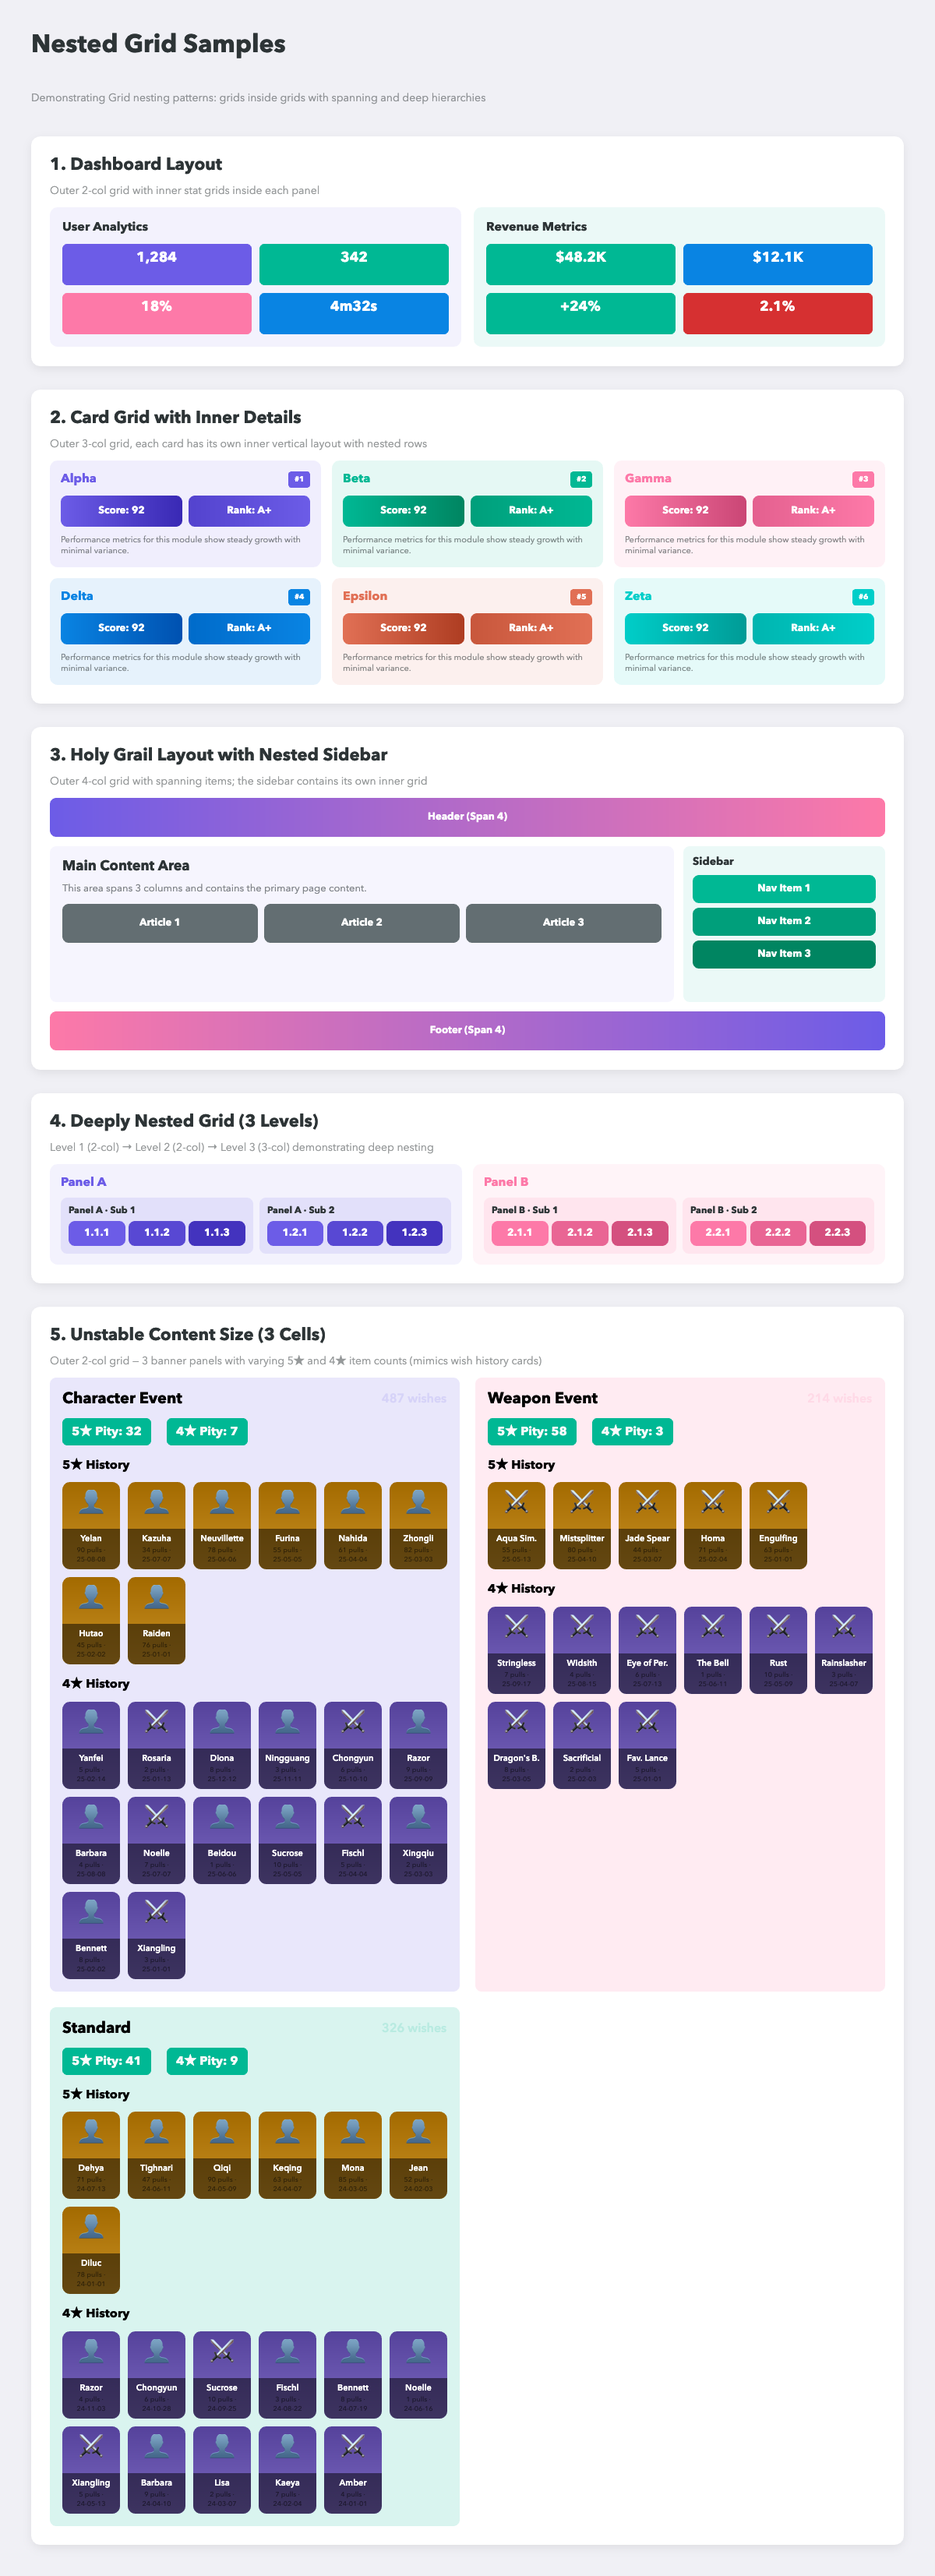
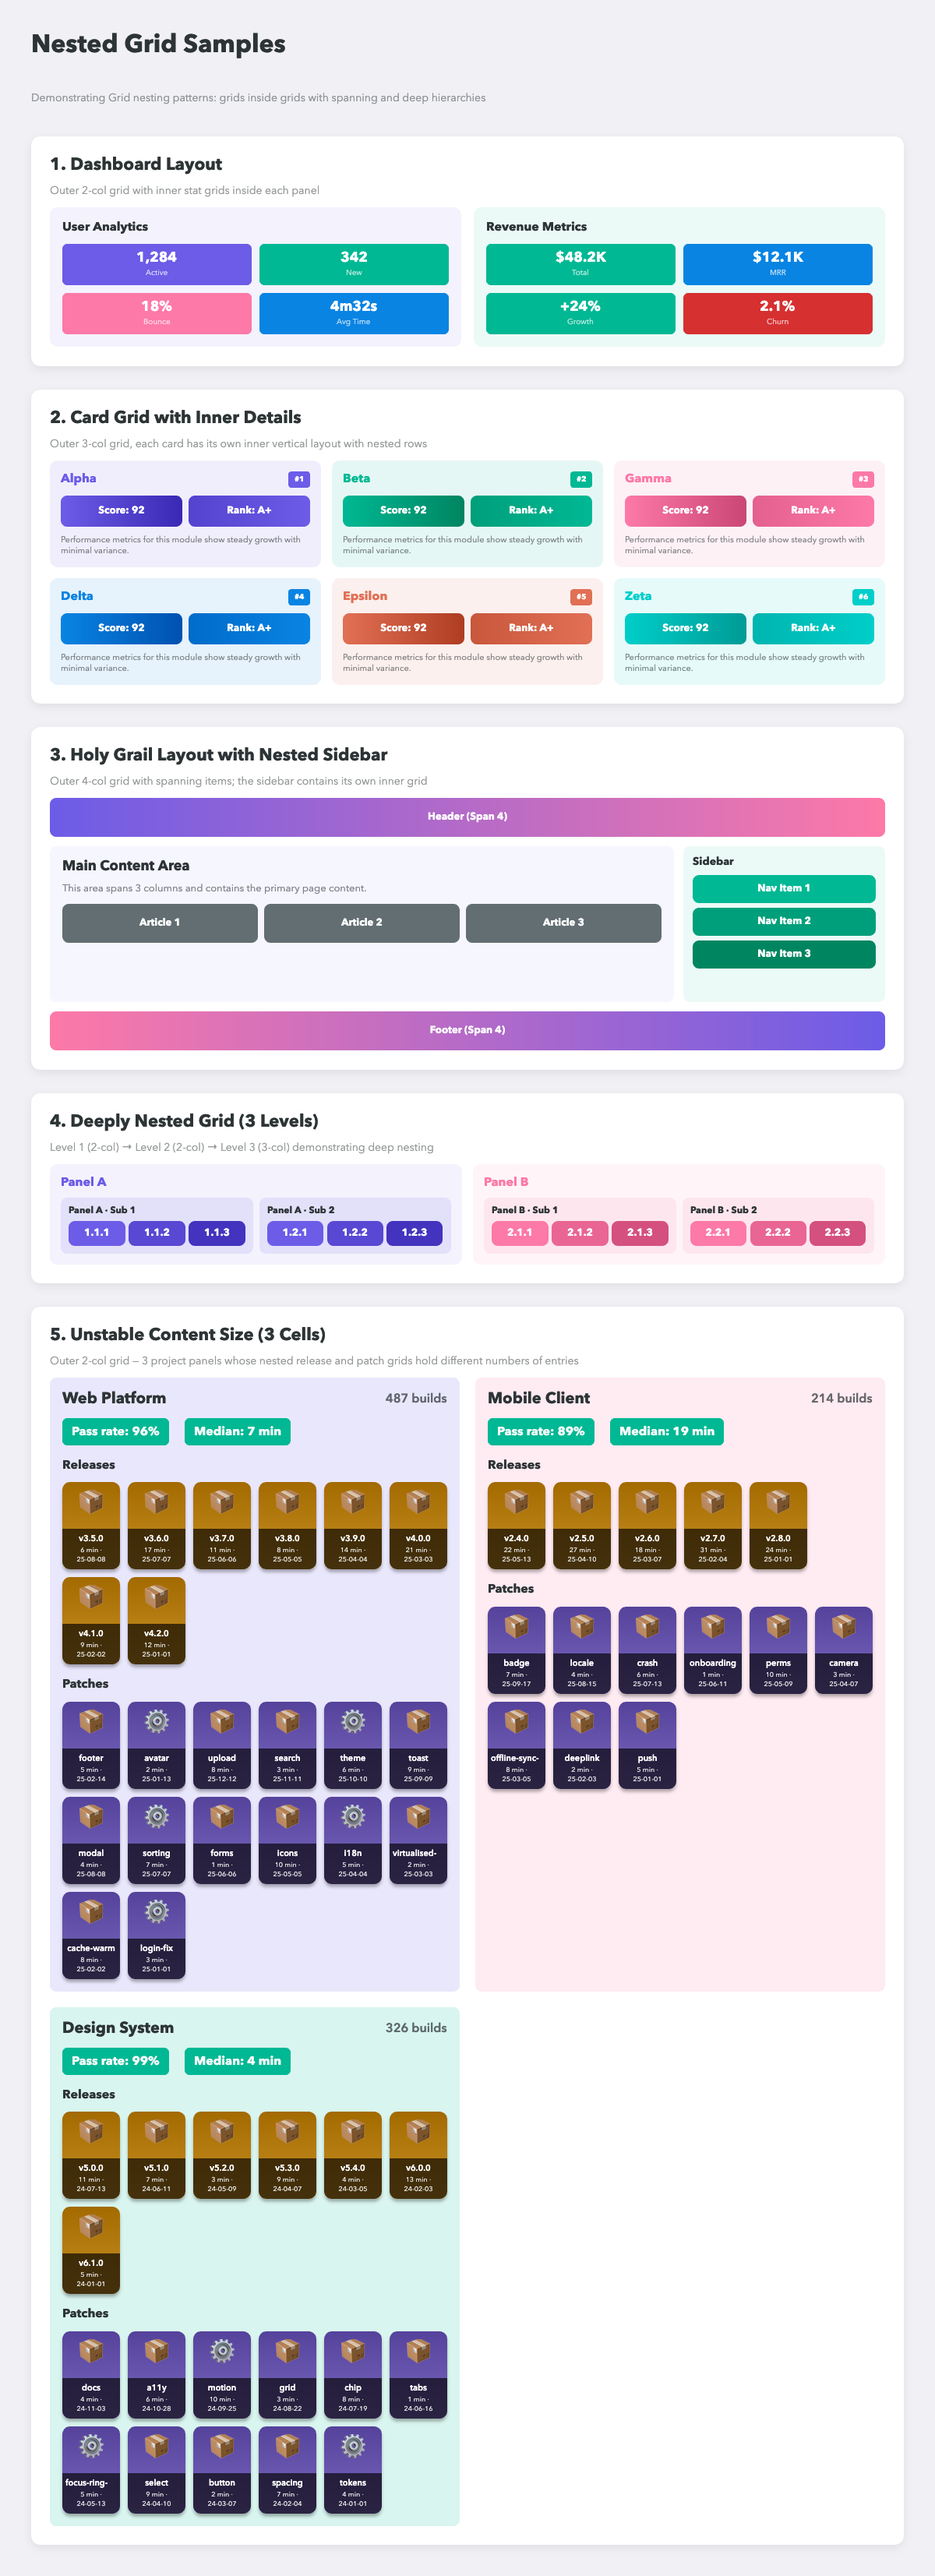
docs(samples): generalise the unstable-size grid, and fix a colour helper
The sample was modelled on gacha pull history, which made a layout demo read
as being about one game. It is a build and release dashboard now: three
projects, each with release and patch sections. The asymmetry is unchanged and
is the point of the sample -- 8/14, 5/9 and 7/11 entries, so no two cells in
the outer grid resolve to the same height.

_alpha sliced hex digits unconditionally, so _alpha('white', 0.7) produced
rgba(NaN,NaN,NaN,0.7). That is not a colour the renderer accepts, so the text
fell back to black and sat unreadable on a dark scrim -- silently, because an
unparseable colour still renders something. It takes colour names now and
throws rather than returning a value that looks like a colour and is not one.
This also fixes the StatBadge labels in sample 1, which had the same problem.

Header meta text went from 2.07:1 to 4.74:1 against its panel, clearing WCAG
AA. Entry names dropped their shared prefix, which had been truncating to
'patch/' on every card; one long name per project still exercises ellipsis.

Changed region(s): [[0.0617, 0.5296, 0.4933, 0.997], [0.5242, 0.5296, 0.9558, 0.7166]]

diff --git a/scripts/generate_sample_nested_grids.ts b/scripts/generate_sample_nested_grids.ts
@@ -10,10 +10,24 @@ function _darken(hex: string, amount: number): string {
   return '#' + [r, g, b].map(v => Math.round(v).toString(16).padStart(2, '0')).join('')
 }
 
-function _alpha(hex: string, a: number): string {
-  const r = parseInt(hex.slice(1, 3), 16)
-  const g = parseInt(hex.slice(3, 5), 16)
-  const b = parseInt(hex.slice(5, 7), 16)
+const NAMED: Record<string, [number, number, number]> = {
+  white: [255, 255, 255],
+  black: [0, 0, 0],
+}
+
+/**
+ * Applies an alpha to a colour, accepting `#rrggbb` or one of the names above.
+ *
+ * The name handling is not a convenience. This used to slice hex digits
+ * unconditionally, so `_alpha('white', 0.7)` produced `rgba(NaN,NaN,NaN,0.7)`,
+ * which is not a colour the renderer accepts — the text fell back to black and
+ * sat there unreadable on a dark scrim. Silent, because an unparseable colour
+ * still renders something. It throws now rather than returning a value that
+ * looks like a colour and is not one.
+ */
+function _alpha(color: string, a: number): string {
+  const [r, g, b] = NAMED[color] ?? [parseInt(color.slice(1, 3), 16), parseInt(color.slice(3, 5), 16), parseInt(color.slice(5, 7), 16)]
+  if ([r, g, b].some(Number.isNaN)) throw new Error(`_alpha: cannot parse colour ${JSON.stringify(color)}`)
   return `rgba(${r},${g},${b},${a})`
 }
 
@@ -329,114 +343,130 @@ const deeplyNested = Section(
 )
 
 // ─── Sample 5: Unstable / Asymmetric Content Size (3 Cells) ──────────────────────
-// Mimics Genshin wish history card style: outer grid with 3 banner panels,
-// each having different item counts for both 5★ and 4★
+// Three panels whose two sub-sections hold different numbers of entries, so no
+// two cells in the outer grid resolve to the same height. That asymmetry is the
+// whole point: the outer grid has to lay out rows where the tallest cell is not
+// the one that starts the row, and where a panel's height is only known after
+// its nested grids have wrapped.
 
-// Rarity color map (similar to RarityColorMapper in the example)
-const RarityColor: Record<number, string> = {
-  5: '#C99024',
-  4: '#7B68C1',
+// Two tiers, so the nested grids differ in colour as well as in length.
+const TierColor: Record<string, string> = {
+  release: '#C99024',
+  patch: '#7B68C1',
 }
 
-// Mock banner data with asymmetric item counts
-const banners = [
+interface Entry {
+  name: string
+  kind: 'package' | 'service'
+  minutes: number
+  date: string
+}
+
+const stamp = (year: number, i: number, step = 1) => `${year}-${String((i % 12) + 1).padStart(2, '0')}-${String(((i * step) % 28) + 1).padStart(2, '0')}`
+
+// Deliberately uneven: 8/14, 5/9 and 7/11 entries. One name per project is long
+// enough to ellipsize, which keeps `maxLines: 1` under test — but the rest fit,
+// because a shared prefix like `patch/` truncates to nothing but the prefix and
+// every card ends up reading the same.
+const projects = [
   {
-    type: 'Character Event',
-    total: 487,
-    pity5: 32,
-    pity4: 7,
-    fiveStars: Array.from({ length: 8 }).map((_, i) => ({
-      name: ['Raiden', 'Hutao', 'Zhongli', 'Nahida', 'Furina', 'Neuvillette', 'Kazuha', 'Yelan'][i],
-      item_type: 'Character',
-      pity: [76, 45, 82, 61, 55, 78, 34, 90][i],
-      time: `2025-${String((i % 12) + 1).padStart(2, '0')}-${String((i % 28) + 1).padStart(2, '0')}`,
+    name: 'Web Platform',
+    builds: 487,
+    passRate: 96,
+    median: 7,
+    releases: Array.from({ length: 8 }).map((_, i) => ({
+      name: ['v4.2.0', 'v4.1.0', 'v4.0.0', 'v3.9.0', 'v3.8.0', 'v3.7.0', 'v3.6.0', 'v3.5.0'][i],
+      kind: 'package' as const,
+      minutes: [12, 9, 21, 14, 8, 11, 17, 6][i],
+      date: stamp(2025, i),
     })),
-    fourStars: Array.from({ length: 14 }).map((_, i) => ({
+    patches: Array.from({ length: 14 }).map((_, i) => ({
       name: [
-        'Xiangling',
-        'Bennett',
-        'Xingqiu',
-        'Fischl',
-        'Sucrose',
-        'Beidou',
-        'Noelle',
-        'Barbara',
-        'Razor',
-        'Chongyun',
-        'Ningguang',
-        'Diona',
-        'Rosaria',
-        'Yanfei',
+        'login-fix',
+        'cache-warm',
+        'virtualised-table',
+        'i18n',
+        'icons',
+        'forms',
+        'sorting',
+        'modal',
+        'toast',
+        'theme',
+        'search',
+        'upload',
+        'avatar',
+        'footer',
       ][i],
-      item_type: i % 3 === 0 ? 'Weapon' : 'Character',
-      pity: [3, 8, 2, 5, 10, 1, 7, 4, 9, 6, 3, 8, 2, 5][i],
-      time: `2025-${String((i % 12) + 1).padStart(2, '0')}-${String((i % 28) + 1).padStart(2, '0')}`,
+      kind: (i % 3 === 0 ? 'service' : 'package') as Entry['kind'],
+      minutes: [3, 8, 2, 5, 10, 1, 7, 4, 9, 6, 3, 8, 2, 5][i],
+      date: stamp(2025, i),
     })),
     color: Theme.primaryColor,
   },
   {
-    type: 'Weapon Event',
-    total: 214,
-    pity5: 58,
-    pity4: 3,
-    fiveStars: Array.from({ length: 5 }).map((_, i) => ({
-      name: ['Engulfing', 'Homa', 'Jade Spear', 'Mistsplitter', 'Aqua Sim.'][i],
-      item_type: 'Weapon',
-      pity: [63, 71, 44, 80, 55][i],
-      time: `2025-${String((i % 12) + 1).padStart(2, '0')}-${String(((i * 3) % 28) + 1).padStart(2, '0')}`,
+    name: 'Mobile Client',
+    builds: 214,
+    passRate: 89,
+    median: 19,
+    releases: Array.from({ length: 5 }).map((_, i) => ({
+      name: ['v2.8.0', 'v2.7.0', 'v2.6.0', 'v2.5.0', 'v2.4.0'][i],
+      kind: 'package' as const,
+      minutes: [24, 31, 18, 27, 22][i],
+      date: stamp(2025, i, 3),
     })),
-    fourStars: Array.from({ length: 9 }).map((_, i) => ({
-      name: ['Fav. Lance', 'Sacrificial', "Dragon's B.", 'Rainslasher', 'Rust', 'The Bell', 'Eye of Per.', 'Widsith', 'Stringless'][i],
-      item_type: 'Weapon',
-      pity: [5, 2, 8, 3, 10, 1, 6, 4, 7][i],
-      time: `2025-${String((i % 12) + 1).padStart(2, '0')}-${String(((i * 2) % 28) + 1).padStart(2, '0')}`,
+    patches: Array.from({ length: 9 }).map((_, i) => ({
+      name: ['push', 'deeplink', 'offline-sync-retry', 'camera', 'perms', 'onboarding', 'crash', 'locale', 'badge'][i],
+      kind: 'package' as const,
+      minutes: [5, 2, 8, 3, 10, 1, 6, 4, 7][i],
+      date: stamp(2025, i, 2),
     })),
     color: Theme.accentColor,
   },
   {
-    type: 'Standard',
-    total: 326,
-    pity5: 41,
-    pity4: 9,
-    fiveStars: Array.from({ length: 7 }).map((_, i) => ({
-      name: ['Diluc', 'Jean', 'Mona', 'Keqing', 'Qiqi', 'Tighnari', 'Dehya'][i],
-      item_type: 'Character',
-      pity: [78, 52, 85, 63, 90, 47, 71][i],
-      time: `2024-${String((i % 12) + 1).padStart(2, '0')}-${String(((i * 2) % 28) + 1).padStart(2, '0')}`,
+    name: 'Design System',
+    builds: 326,
+    passRate: 99,
+    median: 4,
+    releases: Array.from({ length: 7 }).map((_, i) => ({
+      name: ['v6.1.0', 'v6.0.0', 'v5.4.0', 'v5.3.0', 'v5.2.0', 'v5.1.0', 'v5.0.0'][i],
+      kind: 'package' as const,
+      minutes: [5, 13, 4, 9, 3, 7, 11][i],
+      date: stamp(2024, i, 2),
     })),
-    fourStars: Array.from({ length: 11 }).map((_, i) => ({
-      name: ['Amber', 'Kaeya', 'Lisa', 'Barbara', 'Xiangling', 'Noelle', 'Bennett', 'Fischl', 'Sucrose', 'Chongyun', 'Razor'][i],
-      item_type: i % 4 === 0 ? 'Weapon' : 'Character',
-      pity: [4, 7, 2, 9, 5, 1, 8, 3, 10, 6, 4][i],
-      time: `2024-${String((i % 12) + 1).padStart(2, '0')}-${String(((i * 3) % 28) + 1).padStart(2, '0')}`,
+    patches: Array.from({ length: 11 }).map((_, i) => ({
+      name: ['tokens', 'spacing', 'button', 'select', 'focus-ring-audit', 'tabs', 'chip', 'grid', 'motion', 'a11y', 'docs'][i],
+      kind: (i % 4 === 0 ? 'service' : 'package') as Entry['kind'],
+      minutes: [4, 7, 2, 9, 5, 1, 8, 3, 10, 6, 4][i],
+      date: stamp(2024, i, 3),
     })),
     color: Theme.secondaryColor,
   },
 ]
 
 /**
- * Renders star history sections (5★ and/or 4★) — mimics _renderStarHistory from the example
+ * Renders the two history sections of a panel, each its own nested grid.
  */
-const renderStarHistory = (banner: (typeof banners)[number]) => {
+const renderHistory = (project: (typeof projects)[number]) => {
   const sections: any[] = []
 
-  const renderSection = (label: string, items: { name: string; item_type: string; pity: number; time: string }[], starRarity: number) => {
-    if (items.length === 0) return
-    const reversed = [...items].reverse()
-    const bgColor = RarityColor[starRarity]
+  const renderSection = (label: string, entries: Entry[], tier: keyof typeof TierColor) => {
+    if (entries.length === 0) return
+    const reversed = [...entries].reverse()
+    const bgColor = TierColor[tier]
 
     sections.push(
       Text(label, {
         flexShrink: 0,
         fontSize: 16,
         fontWeight: 'bold',
+        color: Theme.darkColor,
         margin: { Top: 4 },
       }),
       Grid({
         flexShrink: 0,
         columns: 6,
         gap: 10,
-        children: reversed.map(star =>
+        children: reversed.map(entry =>
           Column({
             positionType: Style.PositionType.Relative,
             children: [
@@ -459,16 +489,18 @@ const renderStarHistory = (banner: (typeof banners)[number]) => {
                     justifyContent: Style.Justify.Center,
                     padding: 8,
                     height: 60,
-                    children: Text(star.item_type === 'Character' ? '👤' : '⚔', { fontSize: 32 }),
+                    children: Text(entry.kind === 'package' ? '📦' : '⚙', { fontSize: 32 }),
                   }),
-                  // Label area
+                  // Label area. The scrim was 0.5, where the secondary line measured
+                  // 5.10:1 over the lightest end of the gold gradient — passing, but
+                  // thin for 9px type. At 0.66 it is 9.98:1.
                   Column({
                     alignItems: Style.Align.Center,
-                    backgroundColor: 'rgba(0, 0, 0, 0.5)',
+                    backgroundColor: 'rgba(0, 0, 0, 0.66)',
                     padding: { All: 6, Left: 4, Right: 4 },
                     gap: 2,
                     children: [
-                      Text(star.name, {
+                      Text(entry.name, {
                         maxLines: 1,
                         ellipsis: true,
                         textAlign: 'center',
@@ -476,10 +508,10 @@ const renderStarHistory = (banner: (typeof banners)[number]) => {
                         fontWeight: '600',
                         color: 'white',
                       }),
-                      Text(`${star.pity} pulls · ${star.time.slice(2)}`, {
+                      Text(`${entry.minutes} min · ${entry.date.slice(2)}`, {
                         fontSize: 9,
                         textAlign: 'center',
-                        color: _alpha('white', 0.7),
+                        color: _alpha('white', 0.88),
                       }),
                     ],
                   }),
@@ -492,45 +524,49 @@ const renderStarHistory = (banner: (typeof banners)[number]) => {
     )
   }
 
-  renderSection('5★ History', banner.fiveStars, 5)
-  renderSection('4★ History', banner.fourStars, 4)
+  renderSection('Releases', project.releases, 'release')
+  renderSection('Patches', project.patches, 'patch')
 
   return sections
 }
 
 const unstableGrid = Section(
   '5. Unstable Content Size (3 Cells)',
-  'Outer 2-col grid — 3 banner panels with varying 5★ and 4★ item counts (mimics wish history cards)',
+  'Outer 2-col grid — 3 project panels whose nested release and patch grids hold different numbers of entries',
   Grid({
     columns: 2,
     gap: 20,
-    children: banners.map(banner =>
+    children: projects.map(project =>
       Box({
         flexShrink: 0,
-        backgroundColor: _alpha(banner.color, 0.15),
+        backgroundColor: _alpha(project.color, 0.15),
         borderRadius: 8,
         padding: 16,
         children: Column({
           flexShrink: 0,
           gap: 12,
           children: [
-            // Header row: banner name + total wishes
+            // Header row: project name + total builds
             Row({
               justifyContent: Style.Justify.SpaceBetween,
               alignItems: Style.Align.Center,
               children: [
-                Text(banner.type, {
+                Text(project.name, {
                   fontSize: 20,
                   fontWeight: 'bold',
+                  color: Theme.darkColor,
                 }),
-                Text(`${banner.total} wishes`, {
+                // Was black at 0.3, which measured 2.07:1 on the tinted panel and
+                // read as disabled rather than secondary. At 0.72 of the dark it
+                // is 4.74:1, the first of these to clear WCAG AA's 4.5:1.
+                Text(`${project.builds} builds`, {
                   fontSize: 16,
                   fontWeight: '600',
-                  color: _alpha('black', 0.3),
+                  color: _alpha(Theme.darkColor, 0.72),
                 }),
               ],
             }),
-            // Pity badges row
+            // Stat badges row
             Row({
               gap: 20,
               children: [
@@ -538,7 +574,7 @@ const unstableGrid = Section(
                   backgroundColor: Theme.secondaryColor,
                   borderRadius: 6,
                   padding: { All: 8, Left: 12, Right: 12 },
-                  children: Text(`5★ Pity: ${banner.pity5}`, {
+                  children: Text(`Pass rate: ${project.passRate}%`, {
                     fontSize: 16,
                     fontWeight: 'bold',
                     color: Theme.paperColor,
@@ -548,7 +584,7 @@ const unstableGrid = Section(
                   backgroundColor: Theme.secondaryColor,
                   borderRadius: 6,
                   padding: { All: 8, Left: 12, Right: 12 },
-                  children: Text(`4★ Pity: ${banner.pity4}`, {
+                  children: Text(`Median: ${project.median} min`, {
                     fontSize: 16,
                     fontWeight: 'bold',
                     color: Theme.paperColor,
@@ -556,8 +592,8 @@ const unstableGrid = Section(
                 }),
               ],
             }),
-            // 5★ and 4★ History sections
-            ...renderStarHistory(banner),
+            // Release and patch history, each a nested grid
+            ...renderHistory(project),
           ],
         }),
       }),
